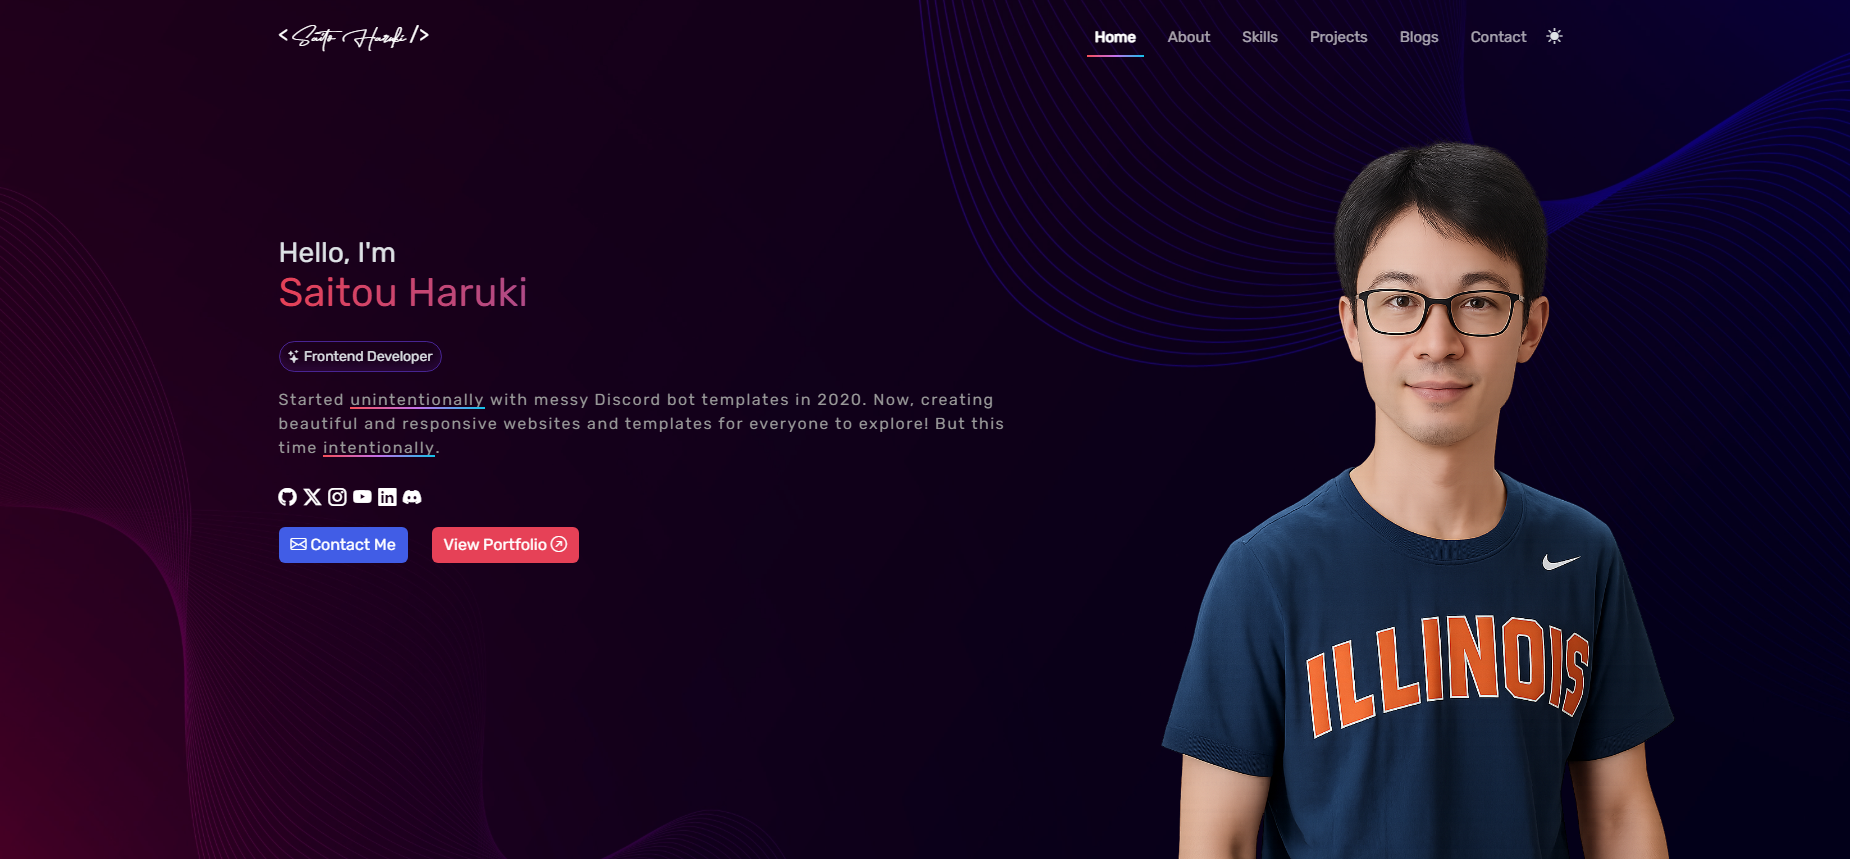
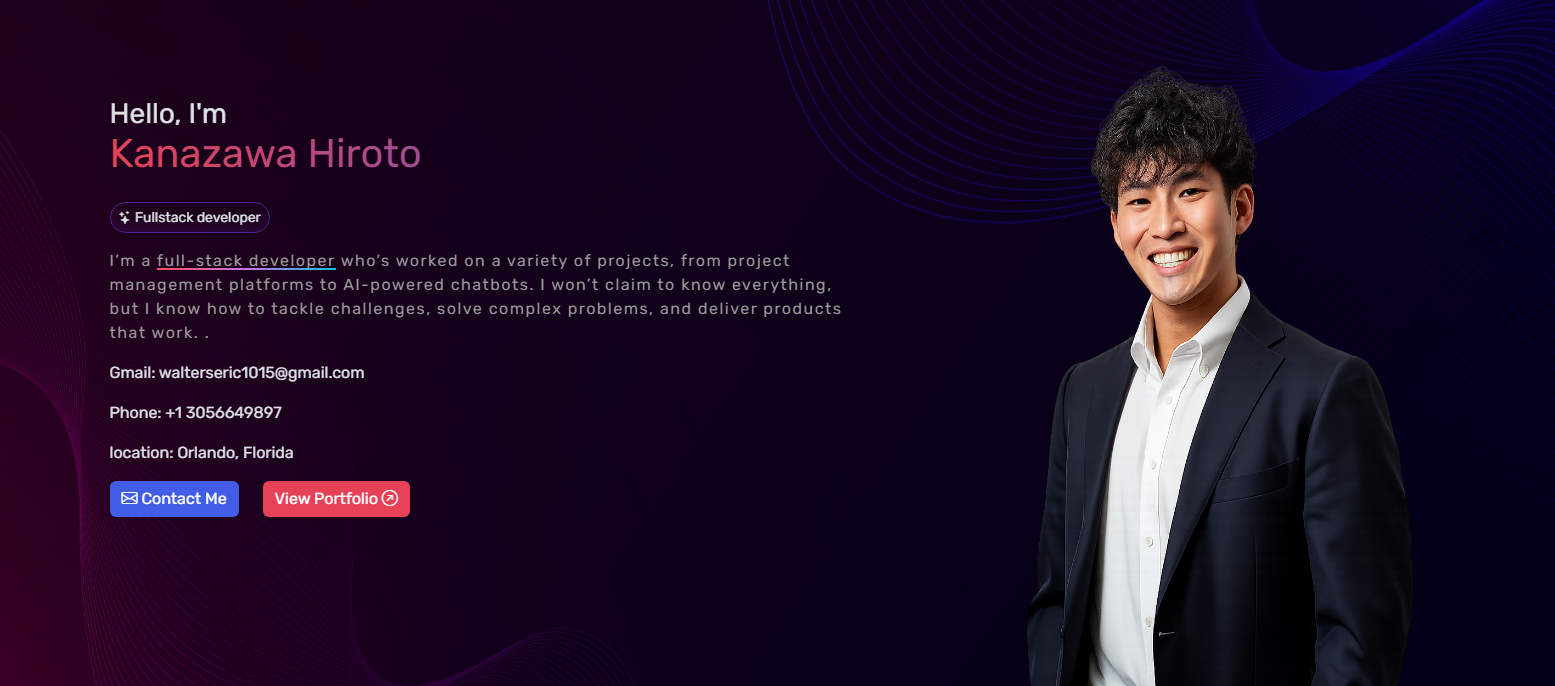
updated portfolio KM

diff --git a/README.md b/README.md
@@ -1,13 +1,8 @@
-# Web Developer Portfolio - Using HTML, CSS, Bootstrap & JS
+# Fullstack web Developer Portfolio
 
-> See live demo:[https://dantetraversy.github.io/Portfolio/](https://dantetraversy.github.io/Portfolio/) Feel free to use but **credit appreciated** and a **⭐** to repo ;)
+Hi there! I'm Kanazawa Hiroto, and this is my portfolio website code built with HTML, CSS, Bootstrap, and a touch of JavaScript. Let's dive into the features:
 
-![Developer Portoflio](https://github.com/dantetraversy/Portfolio/blob/master/Developer%20Portolio%20Website.png)
-
-
-Hi there! I'm Saitou, and this is my portfolio website code built with HTML, CSS, Bootstrap, and a touch of JavaScript. Let's dive into the features:
-
-> But, wait! Have any cool project ideas to share or need some work done? Just shoot me an email at dantetraversy@gmail.com. Let's chat over a virtual coffee! 😊 And if you're wondering why you should consider working together, check out projects like **PfpFinder** (https://pfpfinder.com) (where you can find the best pfps - almost 50k+!), **Alt Text Generator** (https://alttext.tech/) (just upload an image to see what it is!).Check out my complete profile here: https://github.com/dantetraversy
+> But, wait! Have any cool project ideas to share or need some work done? Just shoot me an email at walterseric1015@gmail.com. Let's chat over a virtual coffee! 😊 And if you're wondering why you should consider working together, check out projects like **PfpFinder** (https://pfpfinder.com) (where you can find the best pfps - almost 50k+!), **Alt Text Generator** (https://alttext.tech/) (just upload an image to see what it is!).Check out my complete profile here: https://github.com/Walters-Eric
 
 ## **Portfolio Features:**
 
@@ -28,11 +23,6 @@ Hi there! I'm Saitou, and this is my portfolio website code built with HTML, CSS
 * Fonts: Augustina, Rubik, Dancing Script
 * Bootstrap Icons
 
-## **Want to see it live? 👀**
-
-* Visit: [https://dantetraversy.github.io/Portfolio/](https://dantetraversy.github.io/Portfolio/)
-* Or, explore the code on GitHub: [https://github.com/dantetraversy/Portfolio](https://github.com/dantetraversy/Portfolio/)
-
 ## **Why This Web Developer Portfolio Stands Out**
 
 * **User Experience Focus:**  The dual theme and speed optimizations show I care about delivering a great experience.
@@ -41,6 +31,6 @@ Hi there! I'm Saitou, and this is my portfolio website code built with HTML, CSS
 
 ## **Contact**
 
-Feel free to connect with me or leave feedback. I'm always learning and improving! 
+Feel free to connect with me or leave feedback.
 
-> ~ [dantetraversy.gmail.com](Gmail:dantetraversy.gmail.com)
+> ~ [walterseirc1015@gmail.com](Gmail:walterseirc1015@gmail.com)
